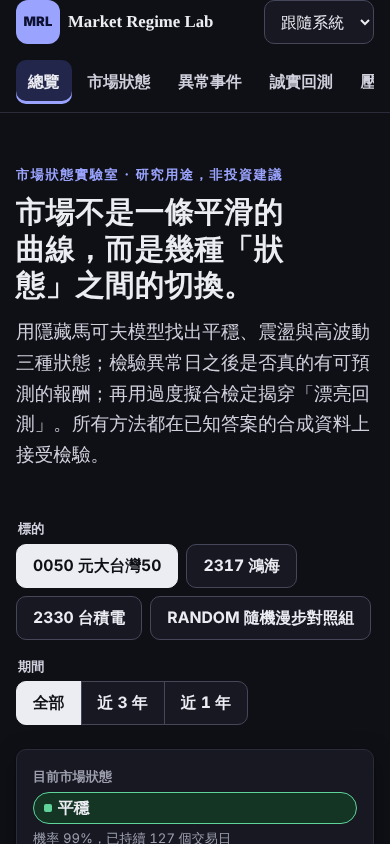
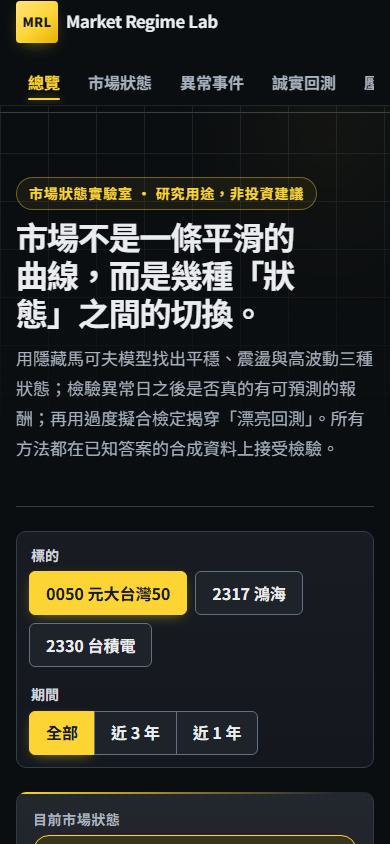
docs: refresh README screenshots and add a page gallery
Recapture every screenshot from the current design with the live site's
data, add a four-page gallery and link DESIGN.md.

diff --git a/README.md b/README.md
@@ -26,9 +26,17 @@
 
 ## 技術
 
-Python、NumPy、React、TypeScript、Vite、Web Worker；GitHub Pages 提供靜態展示，另有非 root Docker 映像。
+Python、NumPy、React、TypeScript、Vite、Web Worker；GitHub Pages 提供靜態展示，另有非 root Docker 映像。介面採深色金黑研究工作區，設計原則見 [DESIGN.md](DESIGN.md)。
 
-![回測研究畫面](docs/screenshots/backtest.png)
+## 畫面
+
+| 市場狀態 | 異常事件 |
+| --- | --- |
+| ![市場狀態畫面](docs/screenshots/regimes.png) | ![異常事件畫面](docs/screenshots/events.png) |
+| **誠實回測** | **壓力測試** |
+| ![誠實回測畫面](docs/screenshots/backtest.png) | ![壓力測試畫面](docs/screenshots/stress.png) |
+
+截圖取自正式網站的 FinMind 歷史快照。
 
 ## 本機執行與驗證
 
